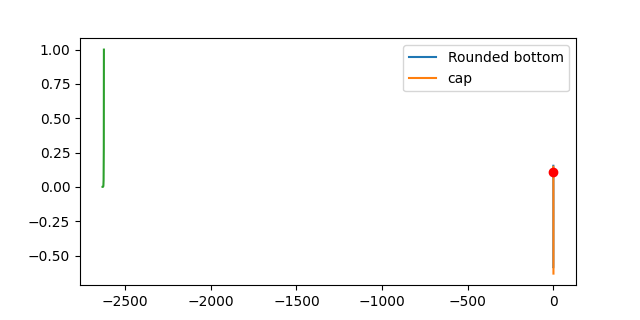
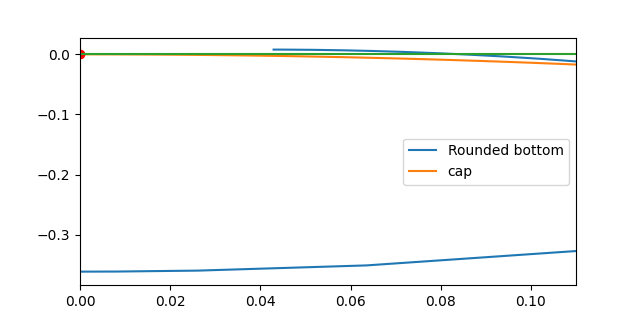
eddited initial_condition pyython file

diff --git a/InitialConditions/initial_conditions.py b/InitialConditions/initial_conditions.py
@@ -4,7 +4,7 @@ from scipy.optimize import fsolve # type: ignore
 from matplotlib import pyplot as plt # type: ignore
 
 
-Theta = 4
+Theta = 20
 delta = 0.001
 
 def func_wrt_x(x,y):
@@ -116,14 +116,26 @@ f_1_y = np.flip(sol2.t[:])
 
 ### z_bar, x_bar, h, l, R, x_0
 initial_guess = np.array([
-  0.13,
-  0.284,
-  0.592,
-  0.592,
-  0.772,
-  0.596
+  0.016,
+  0.01,
+  0.184,
+  0.184,
+  0.196,
+  4
 ])
-root = fsolve(Full_system,initial_guess)
+for i in range(40):
+  root = fsolve(Full_system,initial_guess)
+  initial_guess = root
+  Theta -= 0.25
+  sol = sci.solve_ivp(func_wrt_x, [0,4], np.array([0,0]), method='RK45', rtol=1e-5, atol=1e-10)
+  next_x = sol.t[np.size(sol.t)-1]
+  next_z = sol.y[0,np.size(sol.y[0,:])-1]
+
+  sol2 = sci.solve_ivp(func_wrt_z, [next_z,next_z+4], np.array([next_x,0]), method='RK45', rtol=1e-10, atol=1e-10)
+  f_1_x = np.flip(sol2.y[0,:])
+  f_1_y = np.flip(sol2.t[:]) 
+  
+  
 x_bar = root[1]
 h = root[2]
 l = root[3]
@@ -156,7 +168,7 @@ ax.plot(np.concatenate((sol.t,sol2.y[0,:])),np.concatenate((sol.y[0,:],sol2.t))-
 ax.plot(x,func_B(x,r_0)-l, label="cap")
 ax.plot(x_bar,func_B(x_bar,r_0)-l,'ro')
 ax.plot(f_2_x,f_2_y)
-#ax.set_xlim([0,1])
+ax.set_xlim([0,0.11])
 #np.savetxt("output.txt",[sol2.y[0,:50],sol2.t[:50]])
 #ax.plot(men_sol.t, men_sol.y[0,:])
 plt.legend()
